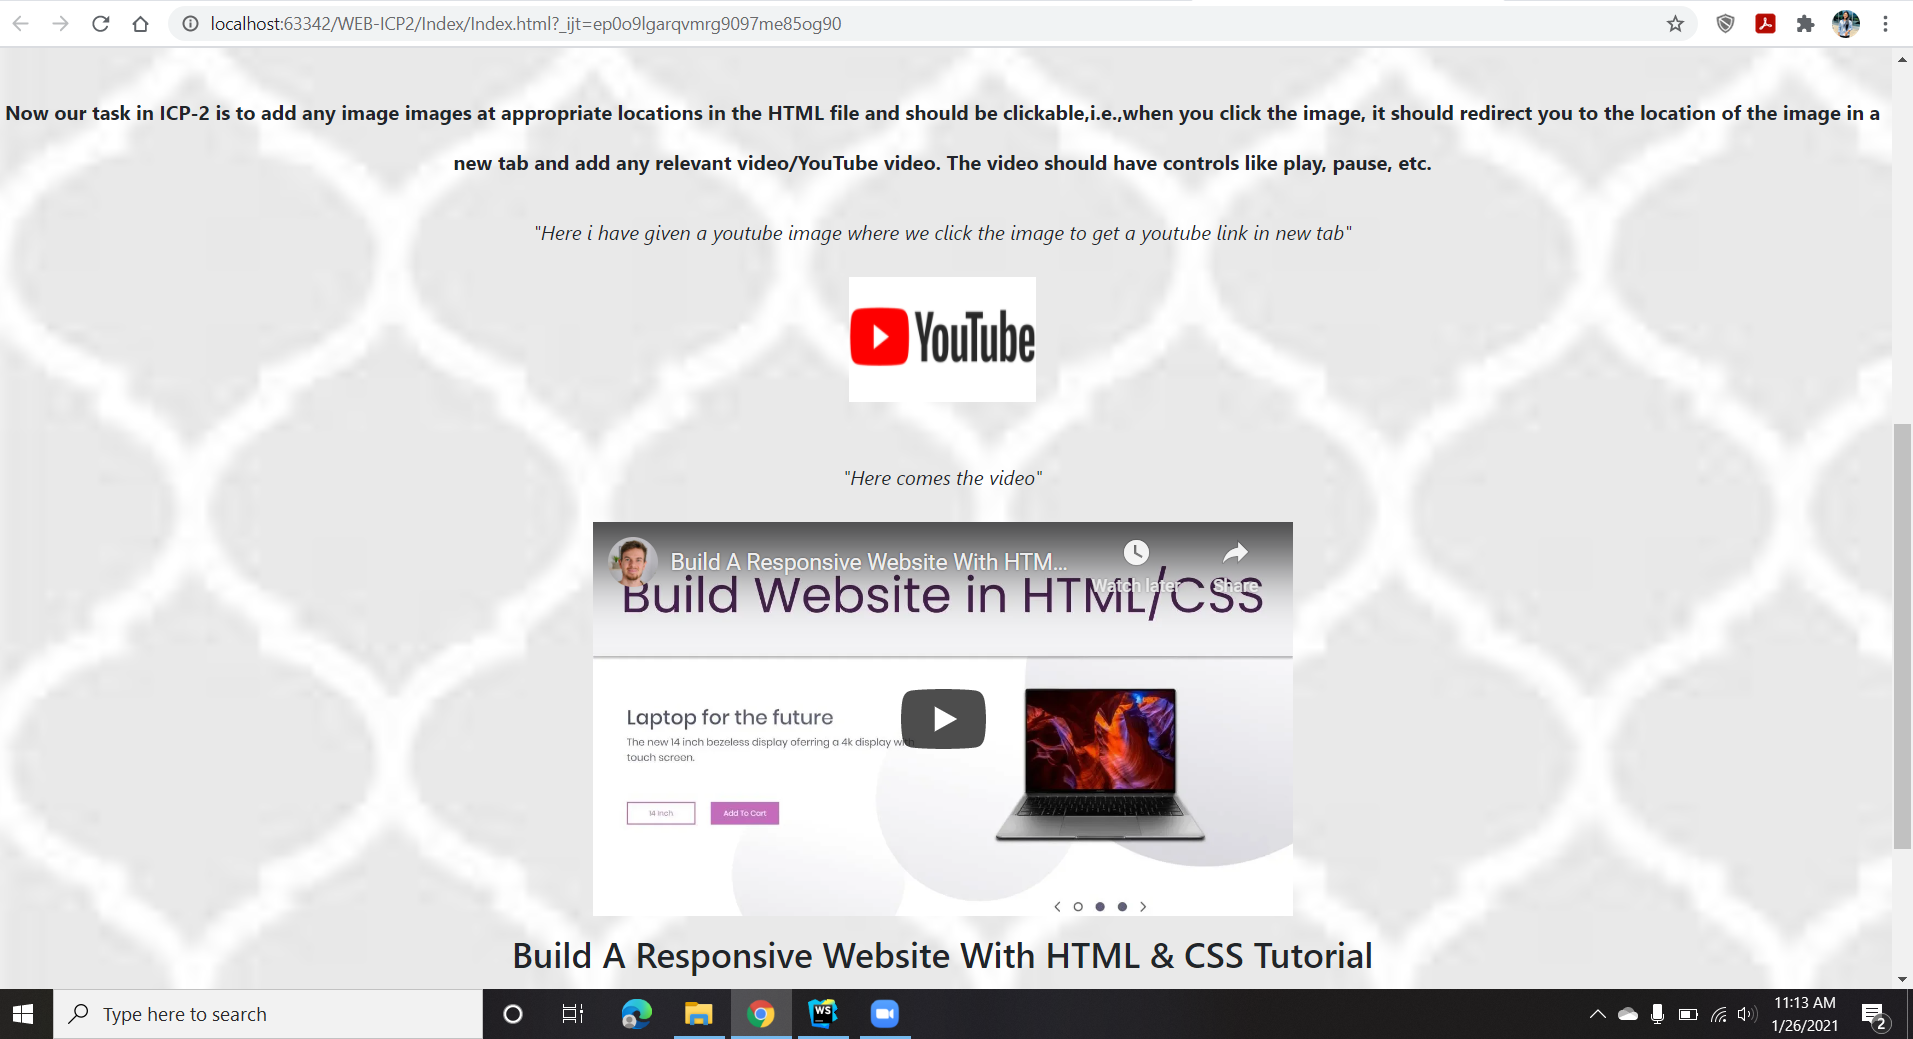
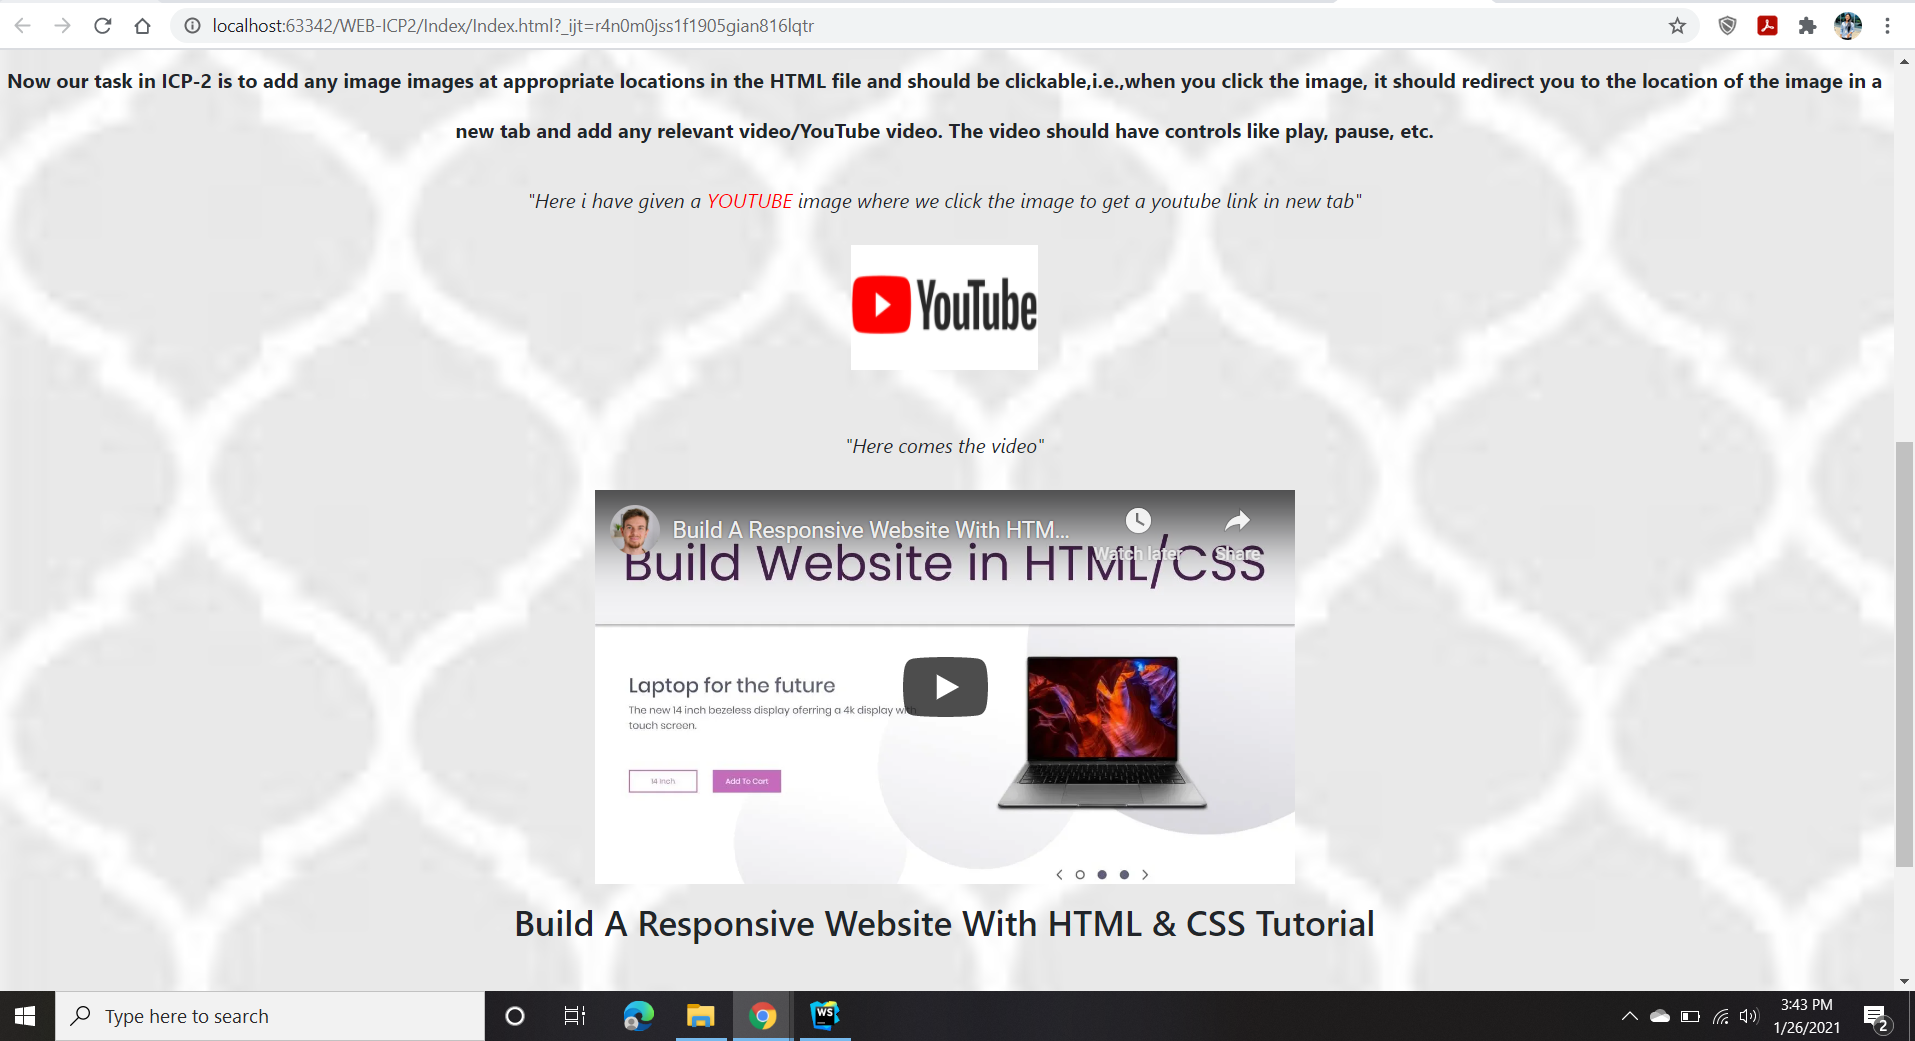
WEB ICP2

diff --git a/WEB-ICP2/Index/Index.html b/WEB-ICP2/Index/Index.html
@@ -34,6 +34,7 @@
 <body>
 <div class="activities">
 
+<!--------Headings H1  H3 and  H5----->
 <h1> Hi! I'm Harika Gurram welcome to my ICP-2</h1>
 
     <p> <h5> HTML page which consists of paragraphs,headings,unordered list,ordered list,div & span elements,block and inline elements,image links and video </h5></p>
@@ -67,7 +68,7 @@
 
     <p><strong>Now our task in ICP-2 is to add any image images at appropriate locations in the HTML file and should be clickable,i.e.,when you click the image, it should redirect you to the location of the image in a new tab and add any relevant video/YouTube video. The video should have controls like play, pause, etc.</strong></p>
 
-    <p><em>"Here i have given a <span class="tata">youtube</span> image where we click the image to get a youtube link in new tab"</em></p>
+    <p><em>"Here i have given a <span style = "color:#FF0000";>YOUTUBE</span> image where we click the image to get a youtube link in new tab"</em></p>
     <a href="https://www.youtube.com/" target="_blank"><img src="http://cdn04.androidauthority.net/wp-content/uploads/2017/08/new-youtube-logo.jpg" height="100" width="150"></a>
 
 <br>
